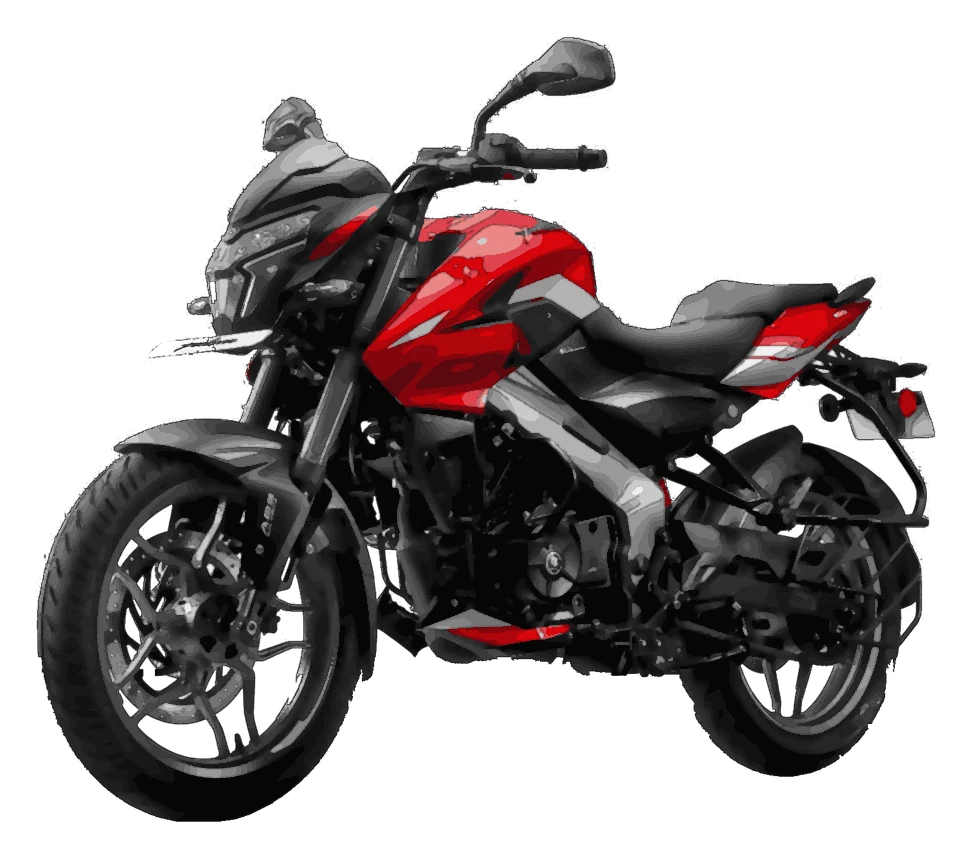
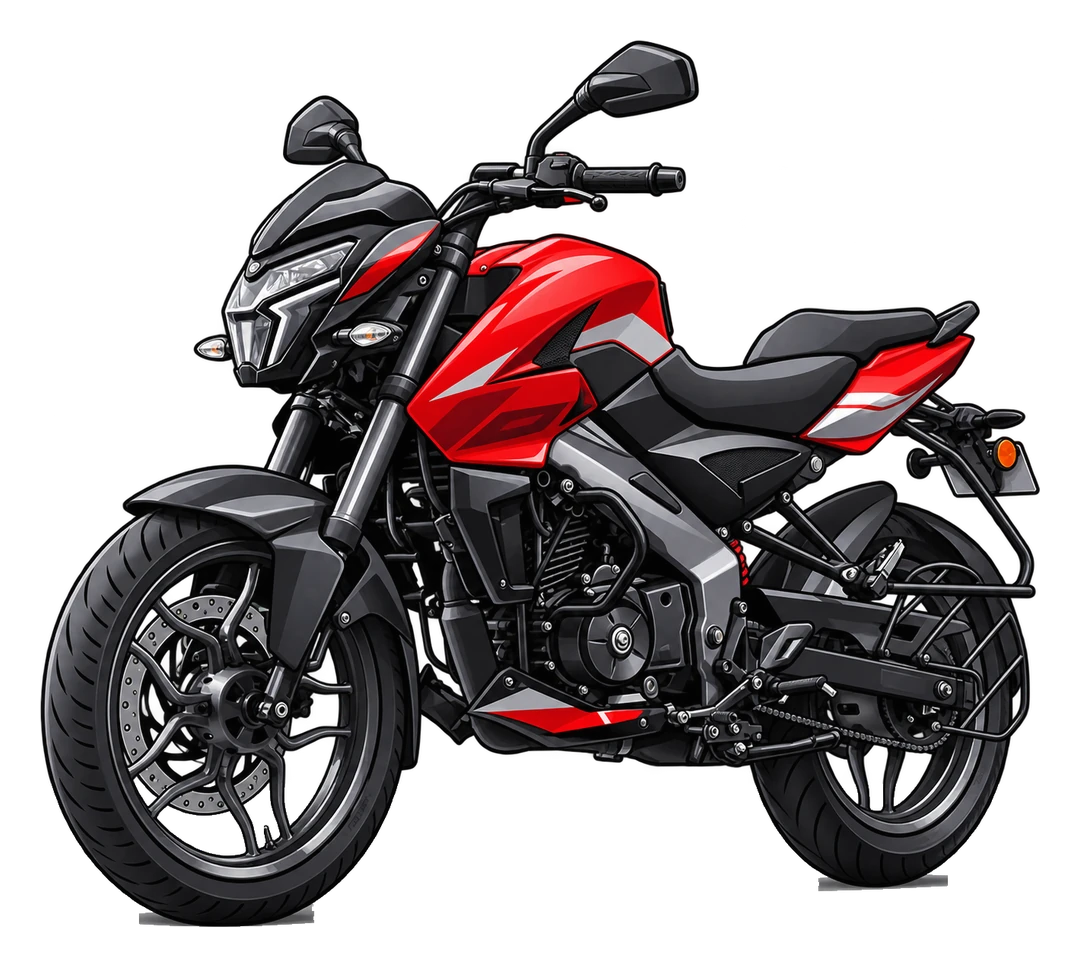
Supplied bike illustrations, sticky alert tabs, header live pill, full-width row text
- Eight supplied illustrations with ground shadows removed (tools/bike_unshadow.py)
- Logbook rows: interval runs under the name and the number, Overdue pill inline
- Profile details: label above value, values wrap
- Alerts tabs sit in the sticky header; bike settings only under Notifications
- Swipe anywhere on the Alerts page to switch tabs
- Live pill moves into the page header, right of the title, centred

Claude-Session: https://claude.ai/code/session_011svZSxEu7wpuhhs3qeC1tv

Changed region(s): [[0.0309, 0.0303, 0.9877, 0.9686]]

diff --git a/js/views.js b/js/views.js
@@ -399,8 +399,9 @@ export function serviceRow(it, st) {
   const v = rowValue(st);
   const tone = st.status === 'overdue' ? 'r' : st.status === 'soon' ? 'a' : 's';
   return `<button class="row has-ic" data-act="sheet" data-arg="svc:${it.id}" data-flip="${it.id}">
-    <div class="row-top"><div class="row-main"><span class="row-ic ${tone}">${icon(it.icon || 'wrench')}</span><div style="min-width:0"><div class="row-title">${esc(it.name)}</div><div class="row-sub">${everyText(it)}</div>${st.status === 'overdue' ? '<div class="row-pill"><span class="opill">Overdue</span></div>' : ''}</div></div>
-    <div class="row-val"><span class="big">${v.v}</span><span class="unit">${v.u.replace(' overdue', '')}</span></div></div>
+    <div class="svc-grid"><span class="row-ic ${tone}">${icon(it.icon || 'wrench')}</span><div class="row-title">${esc(it.name)}</div>
+    <div class="row-val"><span class="big">${v.v}</span><span class="unit">${v.u.replace(' overdue', '')}</span></div>
+    <div class="row-sub">${st.status === 'overdue' ? '<span class="opill">Overdue</span>' : ''}${everyText(it)}</div></div>
     ${st.status === 'soon' || st.status === 'overdue' ? serviceSegs(st) : ''}</button>`;
 }
 
@@ -647,6 +648,10 @@ export const hexHtml = (b) => toHex(b).split(' ').map((h, i) => (i === 1 && b.le
 
 // ---------- ALERTS ----------
 // iOS Safari can't open the Phone app without a number, so the button only shows where it works.
+function alertsTabs(c, needs) {
+  const { s, live } = c, tab = live.alertsTab === 'recent' ? 'recent' : 'needs', n = s.alerts.missed.length + s.alerts.wa.length;
+  return `<div class="ltabs" role="tablist"><button role="tab" class="${tab === 'needs' ? 'on' : ''}" aria-selected="${tab === 'needs'}" data-act="alerts-tab" data-arg="needs">Alerts${needs.length ? `<span class="lt-n">${needs.length}</span>` : ''}</button><button role="tab" class="${tab === 'recent' ? 'on' : ''}" aria-selected="${tab === 'recent'}" data-act="alerts-tab" data-arg="recent">Notifications${n ? `<span class="lt-n">${n}</span>` : ''}</button><span class="grow"></span><span class="eyebrow lt-aside">${short(s.alerts.sent)} sent</span></div>`;
+}
 const IS_IOS = typeof navigator !== 'undefined' && (/iPhone|iPad|iPod/.test(navigator.userAgent) || (navigator.platform === 'MacIntel' && navigator.maxTouchPoints > 1));
 export function alerts(c) {
   const { s, link, live } = c;
@@ -655,7 +660,7 @@ export function alerts(c) {
   const card = (ic, lab, n, sub, act, open) => /* calls & chats */ `<div class="card pad"><div class="eyebrow flex gap8">${icon(ic).replace('<svg', '<svg style="width:14px;height:14px"')}${lab}</div><div class="big mt12" style="font-size:56px">${short(n)}</div><div class="small muted mt8 clamp1">${sub}</div><div class="push"></div><div class="ac-btns mt16">${open}<button class="btn line sm" data-act="sheet" data-arg="clear:${act}" ${n ? '' : 'disabled'}>Clear</button></div></div>`;
   const needs = inbox(c).filter((x) => x.ic !== 'missed' && x.ic !== 'chat');
   return `<div class="stagger">
-  <div class="head pagehead"><div><h1 class="title">Alerts</h1><div class="subtitle">${needs.length ? `${plural(needs.length, 'thing needs', 'things need')} you` : 'Nothing needs you right now'}</div></div></div>
+  <div class="head pagehead"><div><h1 class="title">Alerts</h1><div class="subtitle">${needs.length ? `${plural(needs.length, 'thing needs', 'things need')} you` : 'Nothing needs you right now'}</div></div>${alertsTabs(c, needs)}</div>
   ${(() => { const tab = live.alertsTab === 'recent' ? 'recent' : 'needs';
     const needsHTML = needs.length ? `<div class="list">${needs.map((x) => li({ lead: `<span class="ic">${icon(x.ic)}</span>`, t: x.t, d: x.d, act: x.act, arg: x.arg })).join('')}</div>` : '<div class="card empty">Nothing needs you right now. Service, papers and fuel reminders show up here.</div>';
     // Recent: a notification feed, grouped by day. What reached the bike, when.
@@ -665,9 +670,9 @@ export function alerts(c) {
     const recentHTML = s.alerts.log.length ? s.alerts.log.slice(0, 30).map((x) => { const [ic, what, sub] = NT[x.kind] || NT.call, dd = day(x.ts), head = dd !== lastDay ? `<div class="nf-day">${dd}</div>` : ''; lastDay = dd;
       return `${head}<div class="nf"><span class="nf-ic">${icon(ic)}</span><div class="nf-tx"><div class="nf-t"><b>${esc(x.kind === 'button' ? 'Handlebar' : shortName(x.name))}</b><span class="nf-time">${new Date(x.ts).toLocaleTimeString(DL(), { hour: "numeric", minute: "2-digit" })}</span></div><div class="nf-d">${what} · ${sub}</div></div></div>`; }).join('') : '<div class="card empty">No notifications yet.</div>';
     const callsHTML = `<div class="two">${card('missed', 'Missed calls', m.length, m.length ? 'On your bike' : 'None waiting', 'clear-missed', IS_IOS ? '' : `<a class="btn line sm" href="tel:" aria-label="Open the Phone app">${icon('phone')}Phone</a>`)}${card('chat', 'WhatsApp', w.length, w.length ? 'On your bike' : 'None waiting', 'clear-wa', `<a class="btn line sm" href="whatsapp://" aria-label="Open WhatsApp">${icon('chat')}Chats</a>`)}</div>`;
-    const tabs = `<div class="ltabs" role="tablist"><button role="tab" class="${tab === 'needs' ? 'on' : ''}" aria-selected="${tab === 'needs'}" data-act="alerts-tab" data-arg="needs">Alerts${needs.length ? `<span class="lt-n">${needs.length}</span>` : ''}</button><button role="tab" class="${tab === 'recent' ? 'on' : ''}" aria-selected="${tab === 'recent'}" data-act="alerts-tab" data-arg="recent">Notifications${m.length + w.length ? `<span class="lt-n">${m.length + w.length}</span>` : ''}</button><span class="grow"></span><span class="eyebrow lt-aside">${short(s.alerts.sent)} sent</span></div>`;
     const body = tab === 'needs' ? needsHTML : `${callsHTML}<div class="nf-list mt20">${recentHTML}</div>`;
-    return `<div class="section" style="margin-top:20px">${tabs}<div class="lt-body" data-swipe-tabs="alerts-tab" data-tabs="needs,recent" data-cur="${tab}">${body}</div></div>`; })()}
+    return `<div class="section" style="margin-top:14px"><div class="lt-body" data-swipe-tabs="alerts-tab" data-tabs="needs,recent" data-cur="${tab}">${body}</div></div>`; })()}
+  ${live.alertsTab !== 'recent' ? '' : `
   <div class="section"><div class="dashed">${icon('lock')}<span>Only <b>names and counts</b> reach your bike. Message text never leaves this phone.</span></div></div>
   <div class="section">${sh('Show on the bike', '', 'showbike')}<div class="list">
     ${li({ ic: 'phone', t: 'Phone calls', d: 'Caller name and missed calls', end: sw(a.calls, 'toggle', 'alerts.calls'), chev: false, tag: 'div' })}
@@ -689,6 +694,7 @@ export function alerts(c) {
       </div>
       <p class="hint" style="margin-top:12px">Browsers can’t see your calls or chats. Send them here by hand to test.</p>
     </div></div>
+  `}
   </div>`;
 }
 

diff --git a/js/app.js b/js/app.js
@@ -257,7 +257,17 @@ function renderPill() {
   const n = live.nav, r = live.rec;
   const show = (n || r) && !live.ride.open && s.onboarded && !(n ? screen === 'route' : screen === 'trips' || screen === 'today');
   $('#app').classList.toggle('has-pill', !!show);
-  if (!show) { $('#pill').innerHTML = ''; return; }
+  // The pill lives in the page header, on the right of the title block.
+  const head = $('.view .pagehead');
+  let slot = head && $('.ph-pill', head);
+  if (head && !slot) {
+    slot = Object.assign(document.createElement('div'), { className: 'ph-pill' });
+    const bar = $('.topbar', head);
+    if (bar) bar.insertBefore(slot, bar.lastElementChild); else head.insertBefore(slot, head.children[1] || null);
+  }
+  const host = slot || $('#pill');
+  if (!show) { $('#pill').innerHTML = ''; if (slot) slot.innerHTML = ''; return; }
+  if (slot) $('#pill').innerHTML = '';
   let html;
   if (n) {
     const d = V.dist(n.stepMeters);
@@ -265,8 +275,8 @@ function renderPill() {
   } else {
     html = `<button class="live-pill rec" data-act="tab" data-arg="trips"><span class="dot x pulse"></span><span data-live="pill-rec">${V.num(r.km, 1)} km · ${V.clock((Date.now() - r.start) / 1000)}</span></button>`;
   }
-  const cur = $('#pill .live-pill');
-  if (!cur) $('#pill').innerHTML = html;
+  const cur = $('.live-pill', host);
+  if (!cur) host.innerHTML = html;
   else cur.outerHTML = html.replace('class="live-pill', 'style="animation:none" class="live-pill');
 }
 function renderOverlay() {
@@ -1147,10 +1157,11 @@ function registerUpdates() {
 // Swipe sideways on a tabbed list (Alerts: Needs you / Recent) to switch tabs.
 {
   let sx = 0, sy = 0, el = null;
-  document.addEventListener('touchstart', (e) => { el = e.target.closest('[data-swipe-tabs]'); if (!el) return; sx = e.touches[0].clientX; sy = e.touches[0].clientY; }, { passive: true });
+  document.addEventListener('touchstart', (e) => { const v = e.target.closest('.view'); el = v && !e.target.closest('input, textarea, .switch, .seg') ? v.querySelector('[data-swipe-tabs]') : null; if (!el) return; sx = e.touches[0].clientX; sy = e.touches[0].clientY; }, { passive: true });
+  document.addEventListener('touchcancel', () => { el = null; }, { passive: true });
   document.addEventListener('touchend', (e) => {
     if (!el) return; const t = e.changedTouches[0], dx = t.clientX - sx, dy = t.clientY - sy; const box = el; el = null;
-    if (Math.abs(dx) < 60 || Math.abs(dx) < Math.abs(dy) * 1.6) return;
+    if (Math.abs(dx) < 50 || Math.abs(dx) < Math.abs(dy) * 1.3) return;
     const tabs = box.dataset.tabs.split(','), i = tabs.indexOf(box.dataset.cur), n = tabs[i + (dx < 0 ? 1 : -1)];
     if (n) { A[box.dataset.swipeTabs](n); requestAnimationFrame(() => $('[data-swipe-tabs]')?.classList.add(dx < 0 ? 'in-l' : 'in-r')); }
   }, { passive: true });

diff --git a/styles.css b/styles.css
@@ -1584,3 +1584,29 @@ svg.i.ifill circle, svg.i.ifill rect, svg.i.ifill ellipse, svg.i.ifill path[d$="
 .pc-v { color: var(--ink); text-align: right; min-width: 0; white-space: nowrap; overflow: hidden; text-overflow: ellipsis; }
 .row .row-sub { white-space: normal; display: -webkit-box; -webkit-line-clamp: 2; -webkit-box-orient: vertical; overflow: hidden; text-overflow: clip; }
 .profile-card .pc-name { font-size: 21px; }
+/* Live pill: on the right of the page title, vertically centred with it */
+.app.has-pill .view { --vtop: calc(var(--top) - 16px); }
+.pagehead.head { align-items: center; }
+.ph-pill { margin-left: auto; display: flex; align-items: center; flex: none; }
+.ph-pill:empty { display: none; }
+.ph-pill .live-pill { position: static; transform: none; animation: phPill .35s var(--spring) both; height: 32px; padding: 0 12px 0 9px; font-size: 13.5px; box-shadow: 0 6px 16px -8px rgba(0,0,0,.45); }
+.topbar .ph-pill { margin-left: auto; margin-right: 10px; }
+.head > .ph-pill + * { margin-left: 10px; }
+@keyframes phPill { from { opacity: 0; transform: scale(.8); } }
+/* Logbook rows: the interval runs under both the name and the number, using the full width */
+.row .svc-grid { display: grid; grid-template-columns: auto 1fr auto; grid-template-rows: auto auto; column-gap: 12px; row-gap: 3px; align-items: center; text-align: left; }
+.svc-grid .row-ic { grid-row: 1 / 3; margin: 0; align-self: center; }
+.svc-grid .row-title { grid-column: 2; grid-row: 1; min-width: 0; white-space: nowrap; overflow: hidden; text-overflow: ellipsis; }
+.svc-grid .row-val { grid-column: 3; grid-row: 1; white-space: nowrap; }
+.svc-grid .row-sub { grid-column: 2 / 4; grid-row: 2; white-space: normal !important; display: block !important; -webkit-line-clamp: unset !important; overflow: visible !important; }
+.svc-grid .row-sub .opill { margin-right: 6px; vertical-align: 1px; }
+/* Profile card details: label above value, value wraps instead of being cut */
+.pc-row { grid-template-columns: 18px 1fr; align-items: start; row-gap: 1px; }
+.pc-row svg { margin-top: 2px; grid-row: 1 / 3; }
+.pc-k { font-size: 12.5px; }
+.pc-v { grid-column: 2; text-align: left; white-space: normal; overflow: visible; font-size: 14.5px; line-height: 1.35; }
+/* Alerts: tabs live in the sticky header */
+.pagehead.head { flex-wrap: wrap; }
+.pagehead > .ltabs { flex: 0 0 100%; margin-top: 14px; }
+.pagehead.stuck > .ltabs { margin-top: 8px; }
+.pagehead.head > div:first-child { flex: 1 1 0; min-width: 0; }

diff --git a/sw.js b/sw.js
@@ -1,5 +1,5 @@
 // Waylink — offline shell. Caches the app's own files; fonts are cached as they load.
-const CACHE = 'waylink-v71';
+const CACHE = 'waylink-v72';
 const SHELL = ['./', 'index.html', 'styles.css', 'js/app.js', 'js/views.js', 'js/store.js', 'js/link.js', 'js/protocol.js', 'js/sound.js', 'js/icons-huge.js', 'manifest.webmanifest', 'icon.svg', 'img/logos/wl-loop-rust.svg', 'img/logos/wl-turns-rust.svg', 'img/logos/png/wl-loop-rust-180.png', 'img/bikes/manifest.json', 'img/bikes/ns200-art.webp', ];
 // Cache each file on its own, so one missing file can't block an update.
 self.addEventListener('install', (e) => { e.waitUntil(caches.open(CACHE).then((c) => Promise.all(SHELL.map((u) => c.add(new Request(u, { cache: 'reload' })).catch(() => {})))).then(() => self.skipWaiting())); });

diff --git a/tools/bike_unshadow.py b/tools/bike_unshadow.py
@@ -1,0 +1,36 @@
+# Drop the soft ground shadow from a transparent illustration, then trim and pad.
+import cv2, numpy as np, sys
+from PIL import Image
+def clean(src, out, W=1000):
+    im = Image.open(src).convert('RGBA')
+    a = np.array(im).astype(np.int16); rgb = a[..., :3]; al = a[..., 3].copy(); h, w = al.shape
+    mn = rgb.min(2); sat = rgb.max(2) - mn
+    ys = np.where((al > 200).any(1))[0]; ytop, yb = ys.min(), ys.max(); H = yb - ytop
+    band = np.zeros((h, w), bool); band[int(yb - H * 0.16):, :] = True
+    # the shadow is a smooth, flat grey: low colour, low local texture, and big
+    g = mn.astype(np.float32)
+    mu = cv2.blur(g, (9, 9)); sd = np.sqrt(np.maximum(cv2.blur(g * g, (9, 9)) - mu * mu, 0))
+    cand = (band & (sat < 22) & (mn > 90) & (sd < 7)).astype(np.uint8)
+    n0, lab0, st0, _ = cv2.connectedComponentsWithStats(cand, 8)
+    shadow = np.zeros((h, w), bool)
+    for i in range(1, n0):
+        if st0[i, cv2.CC_STAT_AREA] > h * w * 0.0015: shadow |= lab0 == i
+    shadow = cv2.dilate(shadow.astype(np.uint8), np.ones((5, 5), np.uint8)).astype(bool) & band & (sat < 26) & (mn > 70)
+    shadow |= band & (al < 120)
+    al[shadow] = 0
+    # remove what is left of the shadow: thin, wide streaks in the ground band
+    m = (al > 40).astype(np.uint8)
+    tall = cv2.dilate(cv2.morphologyEx(m, cv2.MORPH_OPEN, np.ones((15, 1), np.uint8)), np.ones((3, 3), np.uint8))
+    al[band & (tall == 0)] = 0
+    # keep only blobs connected to the bike
+    n, lab, st, _ = cv2.connectedComponentsWithStats((al > 40).astype(np.uint8), 8)
+    big = st[1:, cv2.CC_STAT_AREA].max()
+    for i in range(1, n):
+        if st[i, cv2.CC_STAT_AREA] < big * 0.002: al[lab == i] = 0
+    a[..., 3] = al
+    o = Image.fromarray(a.astype(np.uint8))
+    bb = o.getchannel('A').point(lambda v: 255 if v > 24 else 0).getbbox(); o = o.crop(bb)
+    if o.width > W: o = o.resize((W, round(o.height * W / o.width)), Image.LANCZOS)
+    p = round(max(o.size) * 0.04); c = Image.new('RGBA', (o.width + 2 * p, o.height + 2 * p), (0, 0, 0, 0)); c.paste(o, (p, p))
+    c.save(out, quality=90, method=6)
+for s_, o in zip(sys.argv[1::2], sys.argv[2::2]): clean(s_, o)

diff --git a/tests/e2e.py b/tests/e2e.py
@@ -217,6 +217,7 @@ async def main():
 
         # Calls
         await pg.evaluate("location.hash='alerts'"); await pg.wait_for_timeout(500)
+        await pg.click('[data-act="alerts-tab"][data-arg="recent"]'); await pg.wait_for_timeout(400)
         await pg.click('[data-act="relay"][data-arg="ring"]'); await pg.wait_for_timeout(400)
         check('incoming call overlay shows Rohan', 'Rohan' in await text(pg, '.call'))
         await pg.click('[data-act="call-decline"]'); await pg.wait_for_timeout(300)
